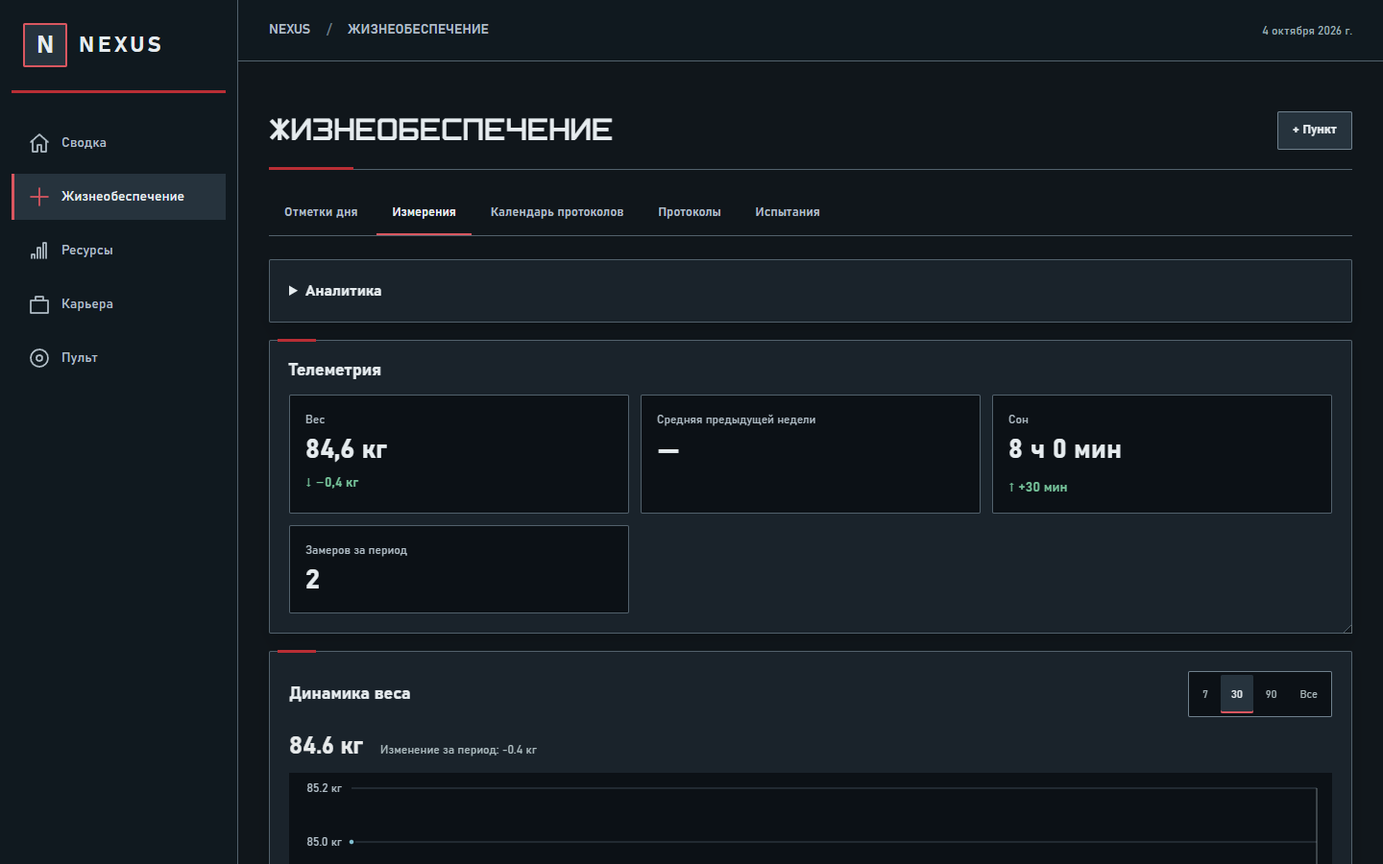
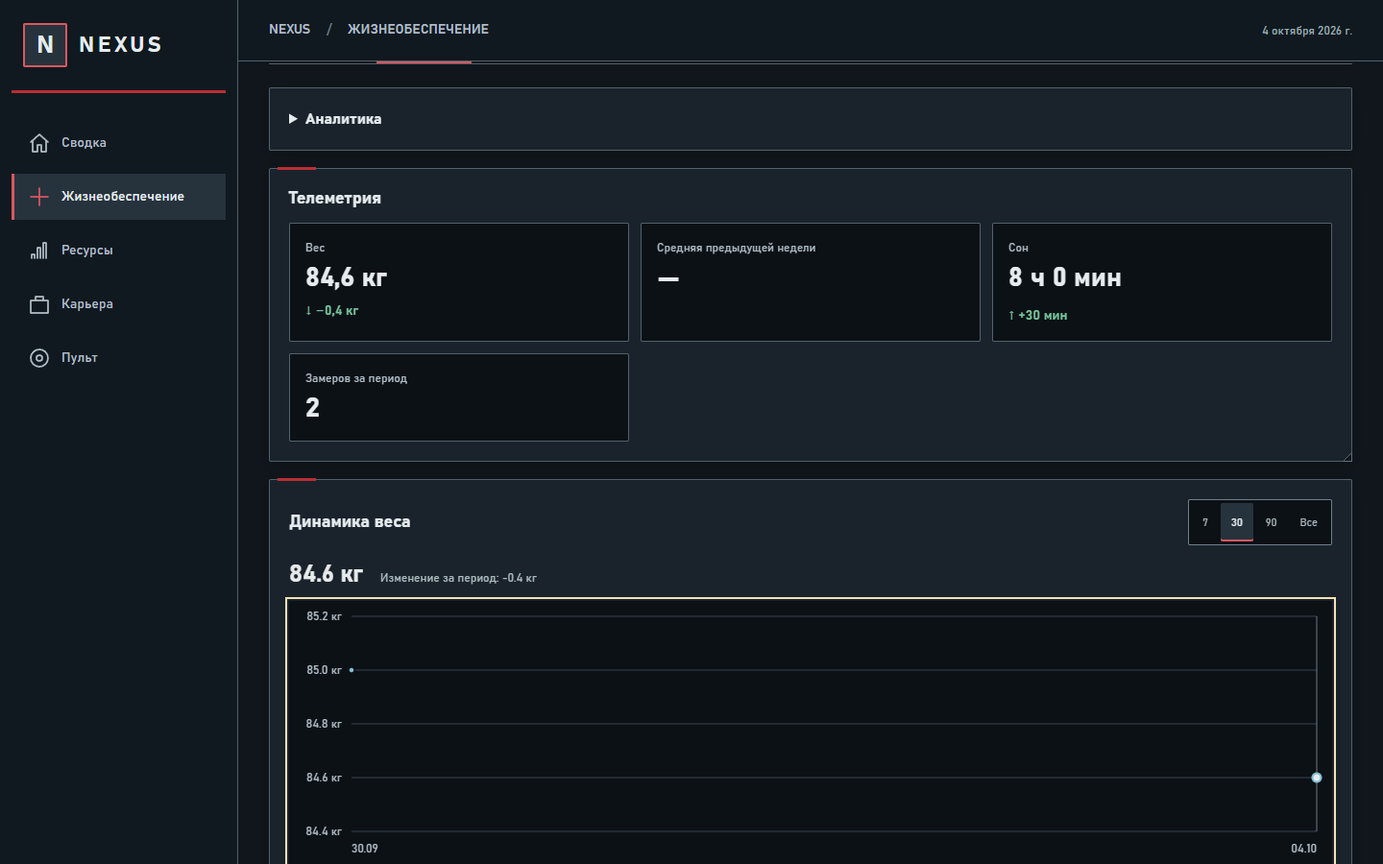
fix: audit Dominion requirements and remove chart sliders in 0.7.1

diff --git a/NEXUS/src/renderer/components/routine-ui.tsx b/NEXUS/src/renderer/components/routine-ui.tsx
@@ -11,7 +11,7 @@ export function RoutineButton({id,onOpen}:{id:'morning'|'evening';onOpen:()=>voi
 const {data}=useDaily(),{steps}=routineSteps(data,id),done=steps.filter(s=>routineDone(data,s.id)).length;return <button className={`daily-launch ${steps.length&&done===steps.length?'complete':''}`} onClick={onOpen}><span className="daily-launch-icon">{id==='morning'?'☀':'◒'}</span><span><strong>{id==='morning'?copy("Утро"):copy("Вечер")}</strong><small>{steps.length?`${done}/${steps.length}`:'Настроить'}</small></span><span aria-hidden="true">›</span></button>;}
 export function RoutineDialog({id,onClose,onJournal}:{id:'morning'|'evening';onClose:()=>void;onJournal:()=>void}){
   const copy=useSystemCopy("routine-ui");
-const {data}=useDaily(),{run,error,busy}=useDailyAction(),{steps,candidates,selected}=routineSteps(data,id),[index,setIndex]=useState(()=>(()=>{const first=steps.findIndex(s=>!routineDone(data,s.id));return first<0?steps.length:first;})()),[edit,setEdit]=useState(false),[selection,setSelection]=useState(selected);const step=steps[index],done=steps.filter(s=>routineDone(data,s.id)).length;const next=()=>setIndex(i=>Math.min(i+1,steps.length));return <DailyDialog title={id==='morning'?copy("Утро"):copy("Вечер")} onClose={onClose}><div className="routine-progress"><span>{done}/{steps.length}</span><progress max={Math.max(1,steps.length)} value={done}/><button className="daily-button subtle" onClick={()=>setEdit(!edit)}>{edit?'Закрыть':'Настроить'}</button></div>{edit?<form className="daily-form" onSubmit={e=>{e.preventDefault();void run(api=>api.routine({id,steps:selection})).then(ok=>{if(ok){setEdit(false);setIndex(0);}});}}>{candidates.map(c=><label className="daily-checkbox" key={c.id}><input type="checkbox" checked={selection.includes(c.id)} onChange={e=>setSelection(old=>e.target.checked?[...old,c.id]:old.filter(x=>x!==c.id))}/>{c.label}</label>)}<button className="daily-button primary" disabled={busy}>Сохранить состав</button></form>:step?<><div className="routine-step-label">ШАГ {index+1} / {steps.length}</div><h3 className="routine-step-title">{step.label}</h3><RoutineStep key={step.id} id={step.id} next={next} onJournal={()=>{onClose();onJournal();}}/>{routineDone(data,step.id)&&<p className="daily-caption good">✓ Уже отмечено</p>}<div className="routine-navigation"><button className="daily-button subtle" disabled={!index} onClick={()=>setIndex(i=>i-1)}>Назад</button><button className="daily-button subtle" onClick={next}>Дальше →</button></div></>:<div className="routine-finish"><span>✓</span><h3>{steps.length&&done===steps.length?'Всё отмечено':'На этом всё'}</h3><p>{done}/{steps.length} выполнено</p><button className="daily-button primary" onClick={onClose}>Готово</button></div>}<DailyError message={error}/></DailyDialog>;}
+const {data}=useDaily(),{run,error,busy}=useDailyAction(),{steps,candidates,selected}=routineSteps(data,id),[index,setIndex]=useState(()=>(()=>{const first=steps.findIndex(s=>!routineDone(data,s.id));return first<0?steps.length:first;})()),[edit,setEdit]=useState(false),[selection,setSelection]=useState(selected);const step=steps[index],done=steps.filter(s=>routineDone(data,s.id)).length;const next=()=>setIndex(i=>Math.min(i+1,steps.length));return <DailyDialog title={id==='morning'?copy("Утро"):copy("Вечер")} onClose={onClose}><div className="routine-progress"><span>{done}/{steps.length}</span><progress max={Math.max(1,steps.length)} value={done}/><button className="daily-button subtle" onClick={()=>setEdit(!edit)}>{edit?'Закрыть':'Настроить'}</button></div>{edit?<form className="daily-form" onSubmit={e=>{e.preventDefault();void run(api=>api.routine({id,steps:selection})).then(ok=>{if(ok){setEdit(false);setIndex(0);}});}}>{candidates.map(c=><label className="daily-checkbox" key={c.id}><input type="checkbox" checked={selection.includes(c.id)} onChange={e=>setSelection(old=>e.target.checked?[...old,c.id]:old.filter(x=>x!==c.id))}/>{c.id==='reflection'?copy('Вопрос вечера'):c.label}</label>)}<button className="daily-button primary" disabled={busy}>Сохранить состав</button></form>:step?<><div className="routine-step-label">ШАГ {index+1} / {steps.length}</div><h3 className="routine-step-title">{step.id==='reflection'?copy('Вопрос вечера'):step.label}</h3><RoutineStep key={step.id} id={step.id} next={next} onJournal={()=>{onClose();onJournal();}}/>{routineDone(data,step.id)&&<p className="daily-caption good">✓ Уже отмечено</p>}<div className="routine-navigation"><button className="daily-button subtle" disabled={!index} onClick={()=>setIndex(i=>i-1)}>Назад</button><button className="daily-button subtle" onClick={next}>Дальше →</button></div></>:<div className="routine-finish"><span>✓</span><h3>{steps.length&&done===steps.length?'Всё отмечено':'На этом всё'}</h3><p>{done}/{steps.length} выполнено</p><button className="daily-button primary" onClick={onClose}>Готово</button></div>}<DailyError message={error}/></DailyDialog>;}
 function RoutineStep({id,next,onJournal}:{id:string;next:()=>void;onJournal:()=>void}){
   const copy=useSystemCopy("routine-ui");
 const {data}=useDaily(),{run,error,busy}=useDailyAction(),day=localDay(),[value,setValue]=useState(id==='weight'?String(data.weights.find(w=>w.day===day)?.weight_kg??''):data.health.find(h=>h.day===day)?.sleep_end??'');if(id==='reflection')return <ReflectionForm onSaved={next}/>;if(id==='journal')return <button className="daily-button primary" onClick={onJournal}>{copy("Рассказать о дне →")}</button>;return <><form className="daily-form" onSubmit={e=>{e.preventDefault();void run(api=>id.startsWith('slot:')?api.careMark({slot_id:id.slice(5),day,done:true}):id.startsWith('habit:')?api.routineEntry({kind:'habit',habit_id:Number(id.slice(6)),day,done:true}):api.routineEntry(id==='weight'?{kind:'weight',day,value:Number(value.replace(',','.'))}:{kind:'wake',day,value})).then(ok=>{if(ok)next();});}}>{(id==='weight'||id==='wake')&&<label>{id==='weight'?'Вес, кг':'Проснулся'}<input autoFocus required type={id==='weight'?'number':'time'} min={id==='weight'?1:undefined} max={id==='weight'?500:undefined} step={id==='weight'?'0.1':undefined} value={value} onChange={e=>setValue(e.target.value)}/></label>}<button className="daily-button primary" disabled={busy}>{id==='weight'||id==='wake'?'Записать':'Сделано'}</button></form><DailyError message={error}/></>;}

diff --git a/NEXUS/src/renderer/ui.tsx b/NEXUS/src/renderer/ui.tsx
@@ -1,3 +1,4 @@
+import {chartKeyIndex} from '../shared/chart-keyboard';
 import {DateChart,type SeriesRole} from './date-chart';
 import {useTheme} from './appearance';
 import {useSystemCopy} from './appearance';
@@ -57,5 +58,5 @@ export function LineChart({values,labels,formatValue=(value)=>String(value),kind
   const chosen=Math.min(selected??values.length-1,values.length-1);
   const ticks=[...new Set(Array.from({length:5},(_,i)=>Math.round(i*(values.length-1)/4)))];
   const shortDate=(label:string)=>/^\d{4}-\d{2}-\d{2}$/.test(label)?`${label.slice(8,10)}.${label.slice(5,7)}`:label;
-  return <div className="chart"><div className="chart-levels"><span>Макс: {formatValue(max)}</span><span>Мин: {formatValue(min)}</span></div><svg ref={chartRef} viewBox={`0 0 ${chartWidth} 172`} preserveAspectRatio="xMidYMid meet" role="img" aria-label="Динамика показателя по датам" onPointerMove={event=>{const rect=event.currentTarget.getBoundingClientRect(),position=(event.clientX-rect.left)/rect.width*chartWidth;setSelected(values.reduce((best,_,i)=>Math.abs(x(i)-position)<Math.abs(x(best)-position)?i:best,0));}}><line x1="24" y1="132" x2={chartWidth-24} y2="132"/><line x1="24" y1="80" x2={chartWidth-24} y2="80"/><line x1="24" y1="28" x2={chartWidth-24} y2="28"/>{kind==='bar'?values.map((v,i)=><rect key={i} className="chart-bar" x={x(i)-Math.min(10,480/values.length)/2} y={y(v)} width={Math.min(10,480/values.length)} height={Math.max(1,132-y(v))}><title>{displayDay(labels?.[i]??'')}: {formatValue(v)}</title></rect>):<polyline points={values.map((v,i)=>`${x(i)},${y(v)}`).join(' ')}/>}<line className="chart-cursor" x1={x(chosen)} x2={x(chosen)} y1="22" y2="132"/><circle cx={x(chosen)} cy={y(values[chosen])} r="4"/>{ticks.map(i=><text key={i} className="chart-date" x={x(i)} y="158" textAnchor={i===0?'start':i===values.length-1?'end':'middle'}>{shortDate(labels?.[i]??String(i+1))}</text>)}</svg><div className="chart-inspection" aria-live="polite"><span>{displayDay(labels?.[chosen]??'')}</span><strong>{formatValue(values[chosen])}</strong></div><input className="chart-slider" type="range" aria-label="Посмотреть значение за дату" min="0" max={values.length-1} value={chosen} onChange={e=>setSelected(Number(e.target.value))}/></div>;
+  return <div className="chart" data-no-swipe><div className="chart-levels"><span>Макс: {formatValue(max)}</span><span>Мин: {formatValue(min)}</span></div><svg ref={chartRef} viewBox={`0 0 ${chartWidth} 172`} preserveAspectRatio="xMidYMid meet" tabIndex={0} role="group" aria-roledescription="График" aria-label={`${label}, ${displayDay(labels?.[chosen]??'')}, ${formatValue(values[chosen])}`} onKeyDown={event=>{if(event.key==='Escape'){event.preventDefault();setSelected(null);return;}const index=chartKeyIndex(event.key,chosen,values.length);if(index!==null){event.preventDefault();setSelected(index);}}} onPointerMove={event=>{const rect=event.currentTarget.getBoundingClientRect(),position=(event.clientX-rect.left)/rect.width*chartWidth;setSelected(values.reduce((best,_,i)=>Math.abs(x(i)-position)<Math.abs(x(best)-position)?i:best,0));}}><line x1="24" y1="132" x2={chartWidth-24} y2="132"/><line x1="24" y1="80" x2={chartWidth-24} y2="80"/><line x1="24" y1="28" x2={chartWidth-24} y2="28"/>{kind==='bar'?values.map((v,i)=><rect key={i} className="chart-bar" x={x(i)-Math.min(10,480/values.length)/2} y={y(v)} width={Math.min(10,480/values.length)} height={Math.max(1,132-y(v))}><title>{displayDay(labels?.[i]??'')}: {formatValue(v)}</title></rect>):<polyline points={values.map((v,i)=>`${x(i)},${y(v)}`).join(' ')}/>}<line className="chart-cursor" x1={x(chosen)} x2={x(chosen)} y1="22" y2="132"/><circle cx={x(chosen)} cy={y(values[chosen])} r="4"/>{ticks.map(i=><text key={i} className="chart-date" x={x(i)} y="158" textAnchor={i===0?'start':i===values.length-1?'end':'middle'}>{shortDate(labels?.[i]??String(i+1))}</text>)}</svg><div className="chart-inspection" aria-live="off"><span>{displayDay(labels?.[chosen]??'')}</span><strong>{formatValue(values[chosen])}</strong></div></div>;
 }

diff --git a/NEXUS/src/renderer/date-chart.tsx b/NEXUS/src/renderer/date-chart.tsx
@@ -1,3 +1,4 @@
+import {chartKeyIndex} from '../shared/chart-keyboard';
 import {useEffect,useRef,useState} from 'react';
 import {displayDay} from '../shared/domain';
 import {chartGeometry,type ChartKind,type ChartPoint} from '../shared/chart-geometry';
@@ -21,7 +22,7 @@ export function DateChart({points,formatValue=String,kind='line',role='neutral',
   const segments:{x:number;y:number}[][]=[];
   points.forEach((point,index)=>{const position=positions[index];if(position.y===null)return;const prior=points[index-1],gap=index===0||positions[index-1].y===null||(/^\d{4}-\d{2}-\d{2}$/.test(point.day)&&Date.parse(point.day)-Date.parse(prior.day)>86400000);if(gap)segments.push([]);segments.at(-1)!.push({x:position.x,y:position.y});});
   return <div className={`chart date-chart series-${role} ${theme==='dominion'?'dominion-chart':''}`} data-no-swipe>
-    <svg ref={ref} viewBox={`0 0 ${width} ${height}`} style={{height}} role="img" aria-label={`${label}, график по датам`} onPointerMove={event=>{if(event.pointerType!=='touch'&&!pinned){const item=nearest(event);if(item.point.day!==selection?.day)select(item,false);}}} onClick={event=>{const item=nearest(event);select(item,!(pinned&&selection?.day===item.point.day));announce(item);}} onKeyDown={event=>{if(event.key==='Escape')clear();}}>
+    <svg ref={ref} viewBox={`0 0 ${width} ${height}`} style={{height}} tabIndex={0} role="group" aria-roledescription="График" aria-label={`${label}, ${displayDay(chosen.point.day)}, ${formatValue(chosen.point.value!)}`} onPointerMove={event=>{if(event.pointerType!=='touch'&&!pinned){const item=nearest(event);if(item.point.day!==selection?.day)select(item,false);}}} onClick={event=>{const item=nearest(event);select(item,!(pinned&&selection?.day===item.point.day));announce(item);}} onKeyDown={event=>{if(event.key==='Escape'){event.preventDefault();clear();return;}const index=chartKeyIndex(event.key,selectedIndex,actual.length);if(index!==null){event.preventDefault();const item=actual[index];select(item,true);announce(item);}}}>
       {ticks.map(value=><g key={value}><line className={value===0?'chart-zero':'chart-grid'} x1={left} x2={width-right} y1={y(value)} y2={y(value)}/><text className="chart-axis" x={left-10} y={y(value)+4} textAnchor="end">{formatTick(value)}</text></g>)}
       {kind==='bar'?actual.map(({point,index})=><rect key={`${point.day}:${index}`} className="chart-bar" data-value={point.value} x={positions[index].x-barWidth/2} y={Math.min(positions[index].y!,baseline)} width={barWidth} height={Math.abs(positions[index].y!-baseline)} rx="2"><title>{displayDay(point.day)}: {formatValue(point.value!)}</title></rect>):segments.map((segment,index)=>segment.length>1?<polyline key={index} points={segment.map(p=>`${p.x},${p.y}`).join(' ')}/>:<circle key={index} cx={segment[0].x} cy={segment[0].y} r="3"/>)}
       {kind==='line'&&actual.length<=12&&actual.map(({index,point})=><circle key={`${point.day}:${index}`} cx={positions[index].x} cy={positions[index].y!} r="3"/>)}
@@ -29,7 +30,6 @@ export function DateChart({points,formatValue=String,kind='line',role='neutral',
       {xTicks.map(i=>{const {point,index}=actual[i];return <text key={i} className="chart-date" x={positions[index].x} y={height-12} textAnchor={i===0?'start':i===actual.length-1?'end':'middle'}>{dateLabel(point.day)}</text>;})}
     </svg>
     <div className="chart-inspection" aria-live="off"><span>{displayDay(chosen.point.day)}</span><strong>{formatValue(chosen.point.value!)}</strong></div>
-    {actual.length>1&&<input className="chart-slider" type="range" aria-label={`${label}: выбрать дату`} aria-valuetext={`${displayDay(chosen.point.day)}: ${formatValue(chosen.point.value!)}`} min="0" max={actual.length-1} value={selectedIndex} onChange={event=>{const item=actual[Number(event.target.value)];select(item,true);announce(item);}} onKeyDown={event=>{if(event.key==='Escape'){event.preventDefault();clear();}}}/>}
     <span className="chart-announcement" role="status" aria-live="polite">{announcement}</span>
   </div>;
 }

diff --git a/NEXUS/src/renderer/dominion.css b/NEXUS/src/renderer/dominion.css
@@ -17,7 +17,6 @@ html[data-theme=dominion] .date-chart .chart-cursor{stroke:var(--textSecondary,#
 html[data-theme=dominion] .date-chart :is(.chart-axis,.chart-date){fill:var(--muted);font-family:inherit;font-size:12px}
 html[data-theme=dominion][data-platform=android] .date-chart polyline{stroke-width:2}
 html[data-theme=dominion] .date-chart .chart-inspection{background:transparent;display:flex;justify-content:space-between;gap:12px;padding:8px 0;flex-wrap:wrap}
-html[data-theme=dominion] .date-chart .chart-slider{padding:0;box-shadow:none;min-height:24px;height:24px;background:transparent;width:100%;border:0}
 
 .appearance-panel{margin-bottom:20px}.appearance-options{display:grid;grid-template-columns:repeat(2,minmax(0,1fr));gap:20px}.appearance-option{margin:0;padding:14px;border:1px solid var(--line,#45575f);border-radius:8px;background:#131c22;cursor:pointer;display:grid;gap:14px;min-height:176px}.appearance-option.selected{border-color:var(--amber,#d8ad63);box-shadow:inset 0 0 0 1px var(--amber,#d8ad63)}.appearance-option:focus-within{outline:2px solid #f4e2b8;outline-offset:3px}.appearance-preview{display:grid;grid-template-columns:22% 1fr;gap:10px;padding:8px;height:112px;min-width:0;border:1px solid #45575f;background:#0e161c}.appearance-preview>i{display:block;background:linear-gradient(#d8ad63,#d8ad63) 10px 14px/calc(100% - 20px) 4px no-repeat,#1d282e;border-radius:4px}.appearance-preview>span{display:grid;grid-template-columns:1fr 1fr;gap:9px;padding:10px}.appearance-preview b{display:block;background:#253138;border:1px solid #45575f;border-radius:5px}.appearance-preview.dominion>i{background:linear-gradient(#d95760,#d95760) 10px 14px/calc(100% - 20px) 4px no-repeat,#1a232b;border-radius:0}.appearance-preview.dominion b{border-radius:0;border-color:#6f808d}.appearance-name{display:flex;align-items:center;gap:10px;color:#e6ecef;font-size:16px;line-height:1.5}.appearance-name input[type=radio]{width:20px;height:20px;min-height:20px;margin:0;flex:none;accent-color:var(--amber,#d8ad63)}.appearance-error{color:#ffc9c2;margin:14px 0 0}.appearance-error button{color:inherit;text-decoration:underline;background:transparent;border:0;padding:4px}
 html[data-theme=dominion]{--bg:#10161b;--surface:#1a232b;--surface2:#26333d;--line:#52616c;--muted:#b1bec7;--text:#e6ecef;--accent:#b92e35;--accent-hover:#ce3942;--accent-pressed:#92232c;--accent-edge:#d95760;--control-border:#6f808d;--inset:#0c1116;--favorable:#76c49b;--unfavorable:#e99a92;--warning:#e8b35a;--info:#80bfd0;--focus:#f4e2b8;--green:#76c49b;--red:#e99a92;--blue:#80bfd0;--radius:2px;color:var(--text);background:var(--bg)}
@@ -94,7 +93,6 @@ html[data-theme=dominion] .appearance-option.selected{border-color:var(--accent-
 html[data-theme=dominion] .appearance-name input{accent-color:var(--accent-edge)}
 html[data-theme=dominion] .today-layout{grid-template-columns:repeat(2,minmax(0,1fr));gap:24px}
 html[data-theme=dominion] .chart-inspection{color:var(--muted)}
-html[data-theme=dominion] .chart-slider{accent-color:var(--info)}
 html[data-theme=dominion] .recording{animation:none;background:var(--accent);color:#fff}
 @media(min-width:980px) and (max-width:1199px){html[data-theme=dominion] .page{padding:24px}}
 @media(max-width:1111px){html[data-theme=dominion] :is(.today-layout,.content-grid,.settings-columns,.settings-grid,.journal-grid,.work-grid){grid-template-columns:1fr}}
@@ -159,3 +157,6 @@ html[data-theme=dominion] :is(.growth-days button.selected,.growth-plan-picker b
 
 html[data-theme=dominion][data-platform=android] :is(.card>button:not(.ghost),.card .inline>button:not(.ghost),.habit-form>button){background:var(--accent);border-color:var(--accent-edge);color:#fff}
 html[data-theme=dominion][data-platform=android] :is(.card>button,.card .inline>button,.habit-form>button):disabled{background:var(--surface2);color:var(--muted);border-color:var(--line)}
+
+
+.chart svg:focus-visible,.mobile-chart svg:focus-visible{outline:2px solid var(--focus,#f4e2b8);outline-offset:2px}

diff --git a/NEXUS/src/renderer/components/journal-review.tsx b/NEXUS/src/renderer/components/journal-review.tsx
@@ -1,3 +1,4 @@
+import {useSystemCopy} from '../appearance';
 import {useDaily} from './daily-context';
 import {useGrowth} from './growth-ui';
 import {metricOptions} from '../../shared/growth';
@@ -10,6 +11,7 @@ import { wellbeingOptions,wellbeingLabel } from '../../shared/wellbeing';
 type Choice={id:number;name:string;kind?:string;target?:number};
 type Props={analysis:JournalAnalysis;accounts:Choice[];categories:Choice[];habits:Choice[];jobs:{id:number;title:string}[];selected:Set<string>;applied:Set<string>;onSelect:(key:string,checked:boolean)=>void;onChange:(analysis:JournalAnalysis)=>void;busy?:boolean;transactions?:{day:string;amount:number;type:string;accountId:number}[];day:string};
 export function JournalReview({analysis,accounts,categories,habits,jobs,selected,applied,onSelect,onChange,busy=false,transactions=[],day}:Props){
+  const copy=useSystemCopy('journal-review');
   const {data:growth}=useGrowth(),{data:daily}=useDaily();
   const h=analysis.health,life=analysis.life??lifeSchema.parse({});
   const already=(key:string)=>applied.has(key)||(applied.has('health.sleep')&&(key==='health.sleep_start'||key==='health.sleep_end'));
@@ -40,6 +42,6 @@ export function JournalReview({analysis,accounts,categories,habits,jobs,selected
   life.care?.forEach((item,i)=>{const slot=daily.slots.find(s=>s.id===item.slotId);if(!slot)return;items.push(card(`life.care.${i}`,`${daily.habits.find(h=>h.id===slot.habit_id)?.name} · ${slot.label}: ${item.done?'Выполнено':'Не выполнено'}`,control('Отметка',<select value={String(item.done)} onChange={e=>changeLife({care:life.care?.map((x,index)=>index===i?{...x,done:e.target.value==='true'}:x)})}><option value="true">Выполнено</option><option value="false">Не выполнено</option></select>)));});
   life.metrics?.forEach((item,i)=>{const metric=growth.metrics.find(m=>m.id===item.metricId&&m.active);if(!metric)return;items.push(card(`life.metric.${i}`,`${metric.name}: ${typeof item.value==='boolean'?(item.value?'Да':'Нет'):item.value}${metric.unit?' '+metric.unit:''}`,control(metric.name,metric.kind==='number'?<input type="number" min="0" step="any" value={Number(item.value)} onChange={e=>changeLife({metrics:life.metrics?.map((x,index)=>index===i?{...x,value:Number(e.target.value)}:x)})}/>:<select value={String(item.value)} onChange={e=>changeLife({metrics:life.metrics?.map((x,index)=>index===i?{...x,value:metric.kind==='boolean'?e.target.value==='true':e.target.value}:x)})}>{(metric.kind==='boolean'?['true','false']:metricOptions(metric)).map(v=><option value={v} key={v}>{metric.kind==='boolean'?(v==='true'?'Да':'Нет'):v}</option>)}</select>)));});
   life.tasks.forEach((item,i)=>items.push(card(`life.task.${i}`,`На ${displayDay(item.dueDay)}: ${item.title}`,<>{control('Дело',<input value={item.title} onChange={e=>changeLife({tasks:life.tasks.map((x,index)=>index===i?{...x,title:e.target.value}:x)})}/>)}{control('Дата',<input type="date" value={item.dueDay} onChange={e=>changeLife({tasks:life.tasks.map((x,index)=>index===i?{...x,dueDay:e.target.value}:x)})}/>)}</>)));
-  life.memories.forEach((item,i)=>items.push(card(`life.memory.${i}`,`Сохранить момент: ${item.text}`,control('Воспоминание',<textarea rows={3} value={item.text} onChange={e=>changeLife({memories:life.memories.map((x,index)=>index===i?{text:e.target.value}:x)})}/>,true))));
+  life.memories.forEach((item,i)=>items.push(card(`life.memory.${i}`,`Сохранить момент: ${item.text}`,control(copy('Воспоминание'),<textarea rows={3} value={item.text} onChange={e=>changeLife({memories:life.memories.map((x,index)=>index===i?{text:e.target.value}:x)})}/>,true))));
   return <div className="review-editor">{items.length?items:<p className="life-muted">Прямых отметок не найдено. Текст остался в дневнике.</p>}</div>;
 }

diff --git a/NEXUS-Android/src/charts.tsx b/NEXUS-Android/src/charts.tsx
@@ -1,3 +1,4 @@
+import {chartKeyIndex} from '../../NEXUS/src/shared/chart-keyboard';
 import {DateChart,type SeriesRole} from '../../NEXUS/src/renderer/date-chart';
 import {useTheme} from '../../NEXUS/src/renderer/appearance';
 import { displayDay } from '../../NEXUS/src/shared/domain';
@@ -13,5 +14,5 @@ export function MobileChart({points,formatValue,kind='line',role='neutral',label
  const x=(i:number)=>16+(Date.parse(points[i].day)-first)/range*328,y=(value:number)=>120-(value-min)/span*95;
  const i=Math.min(selected??points.length-1,points.length-1);
  const ticks=[...new Set([0,Math.round((points.length-1)/3),Math.round((points.length-1)*2/3),points.length-1])];
- return <div className="mobile-chart" data-no-swipe><div className="chart-caption"><span>{formatValue(min)}</span><span>{formatValue(max)}</span></div><svg viewBox="0 0 360 154" role="img" aria-label="График по датам" onPointerDown={e=>{const r=e.currentTarget.getBoundingClientRect(),position=(e.clientX-r.left)/r.width*360;setSelected(points.reduce((best,_,j)=>Math.abs(x(j)-position)<Math.abs(x(best)-position)?j:best,0));}}><line x1="16" x2="344" y1="120" y2="120"/><line x1="16" x2="344" y1="25" y2="25"/>{kind==='bar'?points.map((p,j)=><rect key={p.day} x={x(j)-Math.min(12,250/points.length)/2} y={y(p.value)} width={Math.min(12,250/points.length)} height={Math.max(1,120-y(p.value))}/>):<polyline points={points.map((p,j)=>`${x(j)},${y(p.value)}`).join(' ')}/>}<circle cx={x(i)} cy={y(points[i].value)} r="4"/>{ticks.map(j=><text key={j} x={x(j)} y="144" textAnchor={j===0?'start':j===points.length-1?'end':'middle'}>{points[j].day.slice(8,10)}.{points[j].day.slice(5,7)}</text>)}</svg><div className="chart-caption"><span>{displayDay(points[i].day)}</span><strong>{formatValue(points[i].value)}</strong></div><input type="range" min="0" max={points.length-1} value={i} aria-label="Выбрать дату на графике" onChange={e=>setSelected(Number(e.target.value))}/></div>;
+ return <div className="mobile-chart" data-no-swipe><div className="chart-caption"><span>{formatValue(min)}</span><span>{formatValue(max)}</span></div><svg viewBox="0 0 360 154" tabIndex={0} role="group" aria-roledescription="График" aria-label={`${label}, ${displayDay(points[i].day)}, ${formatValue(points[i].value)}`} onKeyDown={event=>{if(event.key==='Escape'){event.preventDefault();setSelected(null);return;}const index=chartKeyIndex(event.key,i,points.length);if(index!==null){event.preventDefault();setSelected(index);}}} onPointerDown={e=>{const r=e.currentTarget.getBoundingClientRect(),position=(e.clientX-r.left)/r.width*360;setSelected(points.reduce((best,_,j)=>Math.abs(x(j)-position)<Math.abs(x(best)-position)?j:best,0));}}><line x1="16" x2="344" y1="120" y2="120"/><line x1="16" x2="344" y1="25" y2="25"/>{kind==='bar'?points.map((p,j)=><rect key={p.day} x={x(j)-Math.min(12,250/points.length)/2} y={y(p.value)} width={Math.min(12,250/points.length)} height={Math.max(1,120-y(p.value))}/>):<polyline points={points.map((p,j)=>`${x(j)},${y(p.value)}`).join(' ')}/>}<circle cx={x(i)} cy={y(points[i].value)} r="4"/>{ticks.map(j=><text key={j} x={x(j)} y="144" textAnchor={j===0?'start':j===points.length-1?'end':'middle'}>{points[j].day.slice(8,10)}.{points[j].day.slice(5,7)}</text>)}</svg><div className="chart-caption"><span>{displayDay(points[i].day)}</span><strong>{formatValue(points[i].value)}</strong></div></div>;
 }

diff --git a/NEXUS/src/renderer/date-chart.test.tsx b/NEXUS/src/renderer/date-chart.test.tsx
@@ -9,5 +9,5 @@ describe('actual dated charts',()=>{
  it('keeps the value scale readable across fractional and signed ranges',()=>{for(const values of [[78.2,78.9],[.01,.06],[-23,31],[9000,150000],[0,0]]){const g=chartGeometry(values.map((value,i)=>({day:`2026-10-0${i+1}`,value})),320,242,'bar')!;expect(g.ticks.length).toBeGreaterThanOrEqual(3);expect(g.ticks.length).toBeLessThanOrEqual(5);}});
  it('uses zero baseline for positive, negative and genuine zero bars',()=>{const g=chartGeometry([{day:'2026-10-01',value:20},{day:'2026-10-02',value:-10},{day:'2026-10-03',value:0}],600,274,'bar')!;expect(g.positions[0].y!).toBeLessThan(g.baseline);expect(g.positions[1].y!).toBeGreaterThan(g.baseline);expect(g.positions[2].y).toBe(g.baseline);setTheme('dominion');const {container}=render(<DateChart kind="bar" points={[{day:'2026-10-01',value:20},{day:'2026-10-02',value:-10},{day:'2026-10-03',value:0}]}/>);expect(container.querySelector('rect[data-value="0"]')?.getAttribute('height')).toBe('0');});
  it('handles missing, single and constant observations without a fake line',()=>{render(<DateChart points={[]}/>);expect(screen.getByText('Нет данных')).toBeTruthy();cleanup();const {container}=render(<DateChart points={[{day:'2026-10-04',value:78.2}]}/>);expect(container.querySelector('polyline')).toBeNull();expect(screen.getByText('78.2')).toBeTruthy();expect(screen.queryByRole('slider')).toBeNull();const g=chartGeometry([{day:'2026-10-01',value:78},{day:'2026-10-02',value:78}],600,274,'line')!;expect(g.max).toBeGreaterThan(g.min);});
- it('preserves temporal gaps and selects only actual values with keyboard controls',()=>{setTheme('dominion');const points=[{day:'2026-10-01',value:1},{day:'2026-10-02',value:null},{day:'2026-10-04',value:3}];const g=chartGeometry(points,600,274,'line')!;expect(g.positions[1].x-g.positions[0].x).toBeCloseTo((g.positions[2].x-g.positions[0].x)/3);render(<DateChart label="Вес" points={points}/>);const slider=screen.getByRole('slider');expect(slider.getAttribute('max')).toBe('1');fireEvent.change(slider,{target:{value:'0'}});expect(slider.getAttribute('aria-valuetext')).toContain('01.10.2026');expect(screen.getByRole('status').textContent).toContain('01.10.2026');});
+ it('preserves temporal gaps and selects only actual values with keyboard controls',()=>{setTheme('dominion');const points=[{day:'2026-10-01',value:1},{day:'2026-10-02',value:null},{day:'2026-10-04',value:3}];const g=chartGeometry(points,600,274,'line')!;expect(g.positions[1].x-g.positions[0].x).toBeCloseTo((g.positions[2].x-g.positions[0].x)/3);render(<DateChart label="Вес" points={points}/>);expect(screen.queryByRole('slider')).toBeNull();const chart=screen.getByRole('group');fireEvent.keyDown(chart,{key:'Home'});expect(chart.getAttribute('aria-label')).toContain('01.10.2026');expect(screen.getByRole('status').textContent).toContain('01.10.2026');});
 });

diff --git a/NEXUS/src/renderer/metric-delta.tsx b/NEXUS/src/renderer/metric-delta.tsx
@@ -9,5 +9,7 @@ export function MetricDelta({kind,current,previous,goal}:{kind:MetricKind;curren
   useEffect(()=>{const changed=prior.current&&prior.current!==identity;prior.current=identity;if(!changed||theme!=='dominion'||window.matchMedia?.('(prefers-reduced-motion: reduce)').matches)return;const animation=element.current?.animate?.([{opacity:.6},{opacity:1}],{duration:220,easing:'ease-out'});return()=>animation?.cancel();},[identity,theme]);
   if(theme!=='dominion'||!change||!previous)return null;
   const date=new Date(`${previous.day}T12:00:00`).toLocaleDateString('ru-RU',{day:'numeric',month:'long'}),label=kind==='weight'?'Вес':'Сон';
-  return <span ref={element} className={`metric-delta ${change.assessment}`} tabIndex={0} aria-label={`${label}: ${current?.value} ${kind==='weight'?'кг':'мин'}, изменение ${change.text}, к ${date}`} aria-describedby={open?id:undefined} title={`К ${date}`} onFocus={()=>setOpen(true)} onBlur={()=>setOpen(false)} onClick={event=>{event.preventDefault();event.stopPropagation();setOpen(value=>!value);}} onKeyDown={event=>{if(event.key==='Escape'){event.preventDefault();setOpen(false);}if(event.key==='Enter'||event.key===' '){event.preventDefault();event.stopPropagation();setOpen(value=>!value);}}}><span>{change.text}</span>{open&&<span className="metric-comparison-date" id={id} role="tooltip">К {date}</span>}</span>;
+  const direction={up:'Рост',down:'Снижение',flat:'Без изменения'}[change.direction];
+  const assessment={favorable:'Благоприятное изменение',unfavorable:'Неблагоприятное изменение',neutral:'Нейтральное изменение',unknown:'Оценка неизвестна'}[change.assessment];
+  return <span ref={element} className={`metric-delta ${change.assessment}`} tabIndex={0} aria-label={`${label}: ${current?.value} ${kind==='weight'?'кг':'мин'}, ${direction}, изменение ${change.text}, ${assessment}, к ${date}`} aria-describedby={open?id:undefined} title={`К ${date}`} onFocus={()=>setOpen(true)} onBlur={()=>setOpen(false)} onClick={event=>{event.preventDefault();event.stopPropagation();setOpen(value=>!value);}} onKeyDown={event=>{if(event.key==='Escape'){event.preventDefault();setOpen(false);}if(event.key==='Enter'||event.key===' '){event.preventDefault();event.stopPropagation();setOpen(value=>!value);}}}><span>{change.text}</span>{open&&<span className="metric-comparison-date" id={id} role="tooltip">К {date}</span>}</span>;
 }

diff --git a/NEXUS/src/renderer/modules/work.tsx b/NEXUS/src/renderer/modules/work.tsx
@@ -55,7 +55,7 @@ export function WorkPage(){
   }
   async function changeStatus(id:number,status:JobStatus){setBusy(true);try{await window.nexus.work.changeStatus({id,status,comment:''});await reload();setNotice('Статус изменён.');}catch(e){setNotice(errorText(e));}finally{setBusy(false);}}
   async function saveEntry(e:FormEvent){e.preventDefault();if(!entryEdit)return;setBusy(true);try{await window.nexus.work.saveEntry(entryEdit);setEntryEdit(null);await reload();setNotice('Опыт сохранён.');}catch(e){setNotice(errorText(e));}finally{setBusy(false);}}
-  async function saveCase(e:FormEvent){e.preventDefault();if(!caseEdit)return;setBusy(true);try{await window.nexus.work.saveCase(caseEdit);setCaseEdit(null);await reload();setNotice('Кейс сохранён.');}catch(e){setNotice(errorText(e));}finally{setBusy(false);}}
+  async function saveCase(e:FormEvent){e.preventDefault();if(!caseEdit)return;setBusy(true);try{await window.nexus.work.saveCase(caseEdit);setCaseEdit(null);await reload();setNotice(copy('Кейс сохранён.'));}catch(e){setNotice(errorText(e));}finally{setBusy(false);}}
   async function toggleLink(jobId:number,caseId:number,linked:boolean){try{await window.nexus.work.linkCase({jobId,caseId,linked});await reload();}catch(e){setNotice(errorText(e));}}
   async function runAI(kind:'analysis'|'cover'|'interview',overrideBudget=false){if(!selected)return;setAiBusy(kind);try{const result=await window.nexus.ai.run({jobId:selected.id,kind,overrideBudget});if(kind==='cover')setCoverDraft(result.content);await reload();setNotice(kind==='analysis'?'Анализ готов.':kind==='cover'?'Черновик письма готов.':'Подготовка к интервью готова.');}catch(e){const message=errorText(e);if(message.includes('AI_BUDGET_CONFIRM')){if((await askConfirm('Месячный лимит AI достигнут или стоимость прошлых запросов неизвестна. Разрешить этот запрос?')))await runAI(kind,true);}else setNotice(message);}finally{setAiBusy('');}}
   async function openLink(url:string){try{await window.nexus.external.open(url);}catch(e){setNotice(errorText(e));}}

diff --git a/NEXUS-Android/src/updates.ts b/NEXUS-Android/src/updates.ts
@@ -2,8 +2,8 @@ import { Capacitor,registerPlugin } from '@capacitor/core';
 import type { UpdateAPI } from '../../NEXUS/src/shared/updates';
 const native=registerPlugin<UpdateAPI>('NexusUpdates');
 export const updates:UpdateAPI=Capacitor.isNativePlatform()?native:{
-  status:async()=>({phase:'unsupported',currentVersion:'0.7.0',message:'Обновления доступны в приложении Android.'}),
-  check:async()=>({phase:'unsupported',currentVersion:'0.7.0',message:'Обновления доступны в приложении Android.'}),
+  status:async()=>({phase:'unsupported',currentVersion:'0.7.1',message:'Обновления доступны в приложении Android.'}),
+  check:async()=>({phase:'unsupported',currentVersion:'0.7.1',message:'Обновления доступны в приложении Android.'}),
   download:async()=>{throw new Error('Откройте приложение Android.');},
   install:async()=>{throw new Error('Откройте приложение Android.');}
 };

diff --git a/NEXUS/src/renderer/metric-delta-accessibility.test.tsx b/NEXUS/src/renderer/metric-delta-accessibility.test.tsx
@@ -1,0 +1,15 @@
+import {afterEach,expect,it} from 'vitest';
+import {cleanup,render,screen} from '@testing-library/react';
+import {initializeAppearance,setTheme} from './appearance';
+import {MetricDelta} from './metric-delta';
+
+afterEach(()=>{cleanup();setTheme('standard');});
+it('announces the goal assessment separately from the direction of change',()=>{
+  initializeAppearance('windows');setTheme('dominion');
+  render(<MetricDelta kind="weight" current={{id:2,day:'2026-10-04',value:78.6}} previous={{id:1,day:'2026-10-02',value:78.2}} goal={80}/>);
+  const indicator=screen.getByLabelText(/Вес:.*Рост.*Благоприятное изменение/);
+  expect(indicator.getAttribute('aria-label')).toContain('2 октября');
+  cleanup();
+  render(<MetricDelta kind="weight" current={{id:2,day:'2026-10-04',value:77.6}} previous={{id:1,day:'2026-10-02',value:78.2}} goal={78}/>);
+  expect(screen.getByLabelText(/Вес:.*Снижение.*Неблагоприятное изменение/)).toBeTruthy();
+});

diff --git a/NEXUS/src/shared/chart-keyboard.ts b/NEXUS/src/shared/chart-keyboard.ts
@@ -1,0 +1,8 @@
+export function chartKeyIndex(key:string,current:number,count:number):number|null{
+  if(count<1)return null;
+  if(key==='Home')return 0;
+  if(key==='End')return count-1;
+  if(key==='ArrowLeft'||key==='ArrowDown')return Math.max(0,current-1);
+  if(key==='ArrowRight'||key==='ArrowUp')return Math.min(count-1,current+1);
+  return null;
+}
